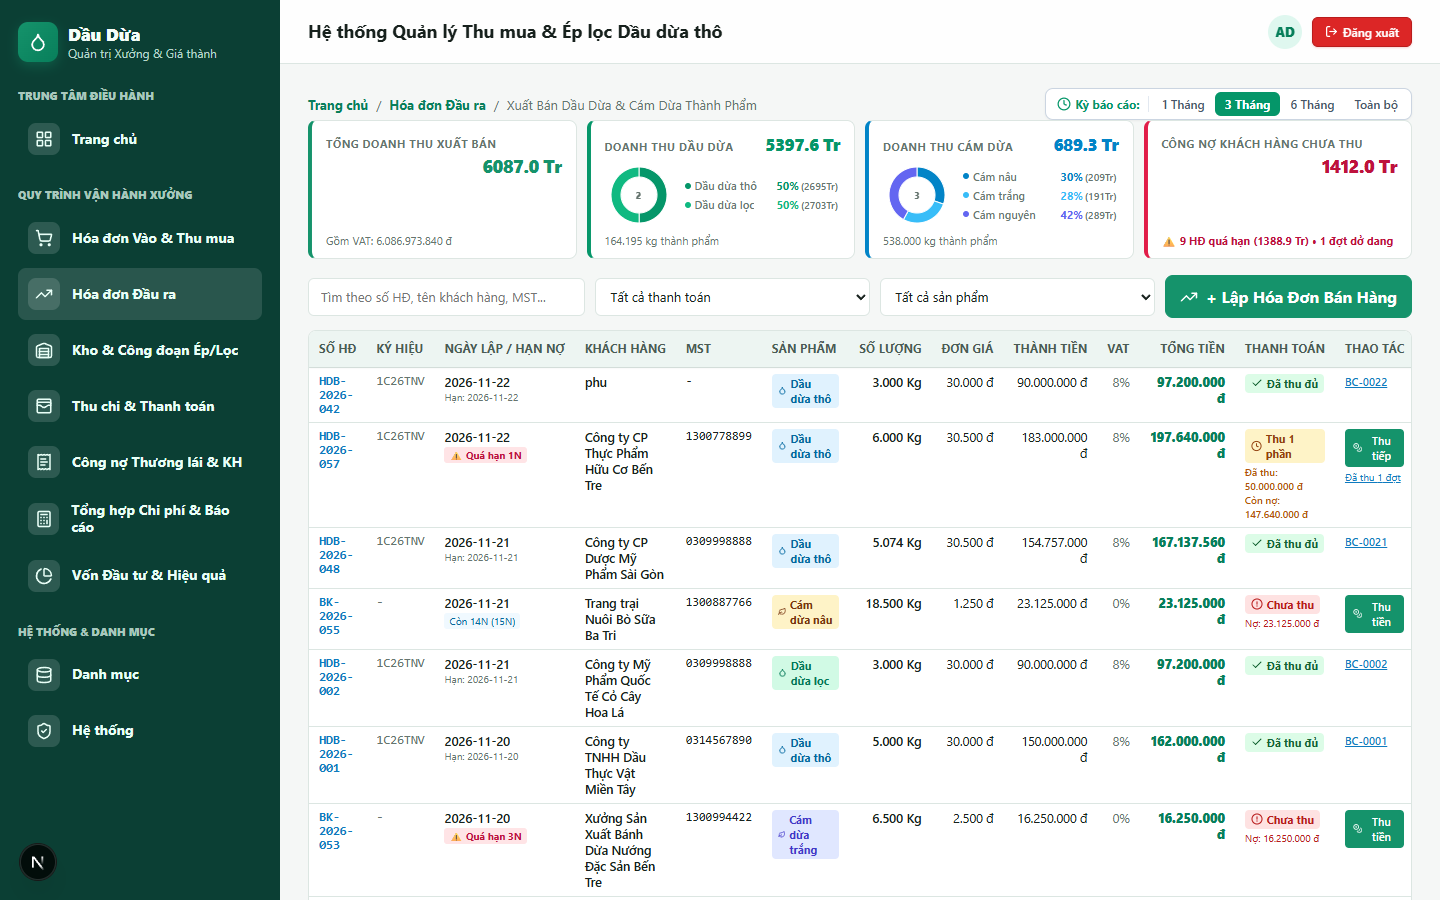
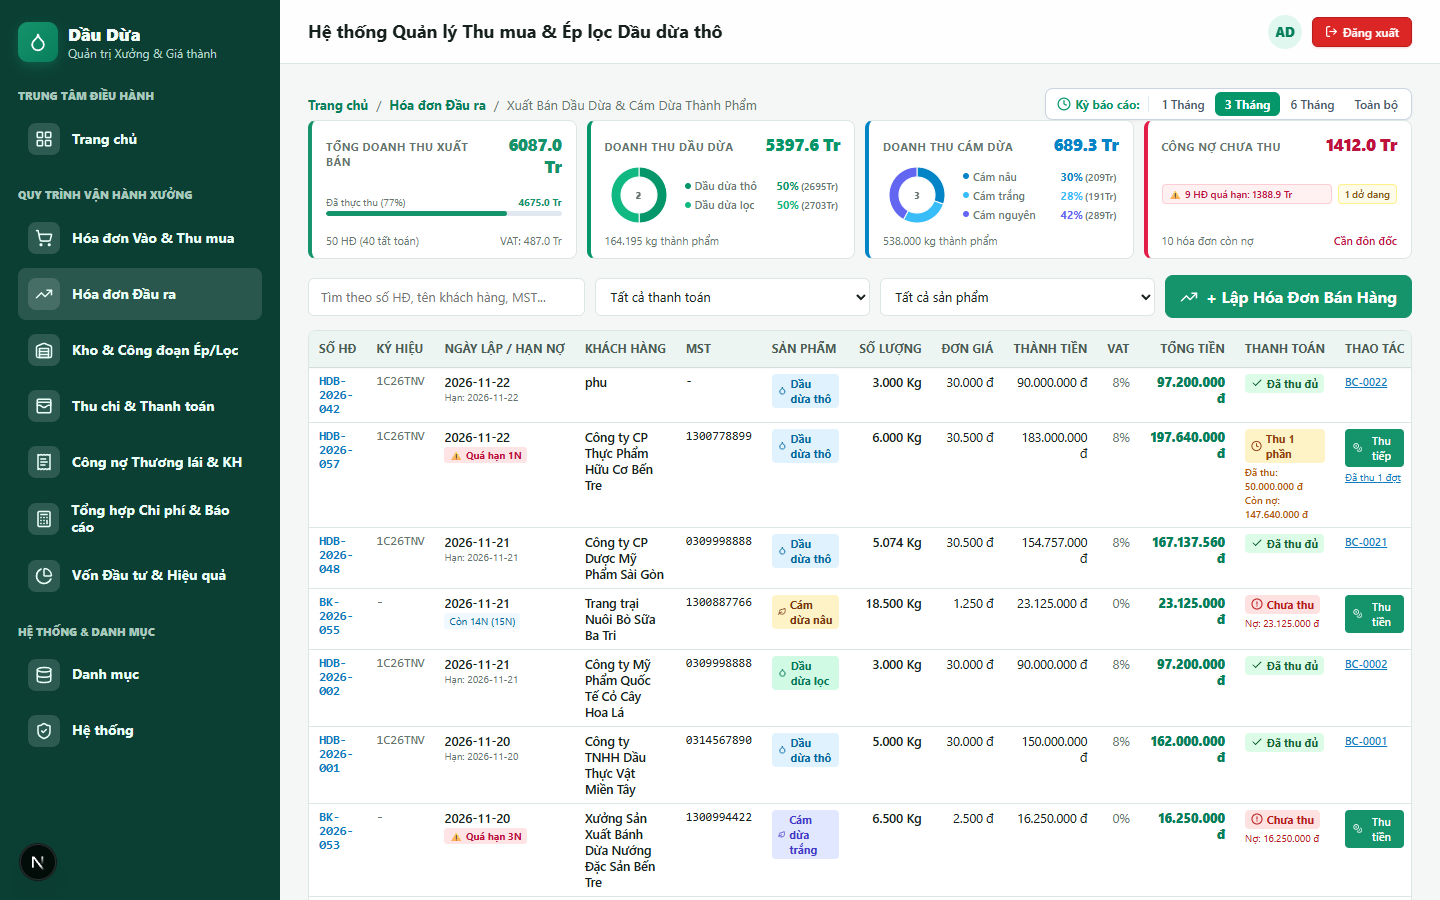
feat(sales): optimize UI and remove whitespace in revenue and receivables boxes with high-density metrics

Changed region(s): [[0.2188, 0.1556, 0.4062, 0.28], [0.8125, 0.1556, 0.9688, 0.2178], [0.8125, 0.2489, 0.9688, 0.28]]

diff --git a/apps/web/screens/sales-invoice-screen.tsx b/apps/web/screens/sales-invoice-screen.tsx
@@ -299,6 +299,13 @@ export default function SalesInvoiceScreen() {
   });
 
   // Paged invoices
+  // Rich metrics for Box 1 & Box 4
+  const totalInvoicesCount = periodInvoices.length;
+  const paidInvoicesCount = periodInvoices.filter((i) => i.paymentStatus === "PAID").length;
+  const totalCollected = periodInvoices.reduce((s, i) => s + (i.paidAmount || 0), 0);
+  const collectionRate = totalRevenue > 0 ? ((totalCollected / totalRevenue) * 100).toFixed(0) : "0";
+  const unpaidCount = periodInvoices.filter((i) => i.paymentStatus !== "PAID").length;
+
   const pagedInvoices = filtered.slice((currentPage - 1) * pageSize, currentPage * pageSize);
   // Segments calculation for Donut Chart
   const oilInvoices = periodInvoices.filter((i) => isOil(i.productType));
@@ -343,16 +350,43 @@ export default function SalesInvoiceScreen() {
 
         {/* Compact KPI Row - 80px according to erp-ux-ui skill */}
         {/* 4 Box ngang hàng (25% mỗi box): 2 Thẻ tài chính + 2 Thẻ biểu đồ tròn Dầu Dừa & Cám Dừa */}
-        <div className="kpi-row-compact" style={{ gridTemplateColumns: "repeat(4, minmax(0, 1fr))", marginBottom: 16 }}>
-          {/* Box 1: Tổng doanh thu xuất bán */}
-          <div className="kpi-card-compact" style={{ borderLeft: "4px solid #15936b", padding: "10px 14px", display: "flex", flexDirection: "column", justifyContent: "space-between" }}>
-            <div>
+        <div className="kpi-row-compact" style={{ gridTemplateColumns: "repeat(4, minmax(0, 1fr))", gap: 10, marginBottom: 16 }}>
+          {/* Box 1: Tổng doanh thu xuất bán (Rich UI) */}
+          <div
+            className="kpi-card-compact"
+            style={{
+              borderLeft: "4px solid #15936b",
+              padding: "10px 14px",
+              display: "flex",
+              flexDirection: "column",
+              justifyContent: "space-between",
+              minHeight: "84px"
+            }}
+          >
+            {/* Header: Label & Value */}
+            <div style={{ display: "flex", justifyContent: "space-between", alignItems: "baseline" }}>
               <span className="kpi-label">Tổng doanh thu xuất bán</span>
-              <span className="kpi-value text-right" style={{ color: "#15936b", display: "block", fontSize: "18px", marginTop: 2 }}>
+              <span className="kpi-value text-right" style={{ color: "#15936b", fontSize: "17px", marginLeft: 8 }}>
                 {(totalRevenue / 1000000).toFixed(1)} Tr
               </span>
             </div>
-            <span className="kpi-sub" style={{ marginTop: 6 }}>Gồm VAT: {(totalRevenue).toLocaleString("vi-VN")} đ</span>
+
+            {/* Progress bar: Tỷ lệ thực thu */}
+            <div style={{ marginTop: 6, marginBottom: 4 }}>
+              <div style={{ display: "flex", justifyContent: "space-between", fontSize: "10px", color: "var(--muted)", marginBottom: 2 }}>
+                <span>Đã thực thu ({collectionRate}%)</span>
+                <span style={{ fontWeight: 700, color: "#15936b" }}>{(totalCollected / 1000000).toFixed(1)} Tr</span>
+              </div>
+              <div style={{ width: "100%", height: 5, background: "#e2e8f0", borderRadius: 3, overflow: "hidden" }}>
+                <div style={{ width: `${Math.min(100, Number(collectionRate))}%`, height: "100%", background: "#15936b", borderRadius: 3, transition: "width 0.3s ease" }} />
+              </div>
+            </div>
+
+            {/* Subtext footer */}
+            <div style={{ display: "flex", justifyContent: "space-between", fontSize: "11px", color: "var(--muted)", marginTop: 2 }}>
+              <span>{totalInvoicesCount} HĐ ({paidInvoicesCount} tất toán)</span>
+              <span>VAT: {((totalRevenue * 0.08) / 1000000).toFixed(1)} Tr</span>
+            </div>
           </div>
 
           {/* Box 2: Biểu đồ tròn Dầu Dừa */}
@@ -390,19 +424,51 @@ export default function SalesInvoiceScreen() {
             }}
           />
 
-          {/* Box 4: Công nợ khách hàng chưa thu */}
-          <div className="kpi-card-compact" style={{ borderLeft: `4px solid ${overdueInvoices.length > 0 ? "#e11d48" : "#c77d14"}`, padding: "10px 14px", display: "flex", flexDirection: "column", justifyContent: "space-between" }}>
-            <div>
-              <span className="kpi-label">Công nợ khách hàng chưa thu</span>
-              <span className="kpi-value text-right" style={{ color: overdueInvoices.length > 0 ? "#be123c" : unpaidTotal > 0 ? "#d94b35" : "#15936b", display: "block", fontSize: "18px", marginTop: 2 }}>
-                {unpaidTotal > 0 ? `${(unpaidTotal / 1000000).toFixed(1)} Tr` : "0 đ (Đã thu đủ)"}
+          {/* Box 4: Công nợ khách hàng chưa thu (Rich UI) */}
+          <div
+            className="kpi-card-compact"
+            style={{
+              borderLeft: `4px solid ${overdueInvoices.length > 0 ? "#e11d48" : "#c77d14"}`,
+              padding: "10px 14px",
+              display: "flex",
+              flexDirection: "column",
+              justifyContent: "space-between",
+              minHeight: "84px"
+            }}
+          >
+            {/* Header: Label & Value */}
+            <div style={{ display: "flex", justifyContent: "space-between", alignItems: "baseline" }}>
+              <span className="kpi-label">Công nợ chưa thu</span>
+              <span className="kpi-value text-right" style={{ color: overdueInvoices.length > 0 ? "#be123c" : unpaidTotal > 0 ? "#d94b35" : "#15936b", fontSize: "17px", marginLeft: 8 }}>
+                {unpaidTotal > 0 ? `${(unpaidTotal / 1000000).toFixed(1)} Tr` : "0 đ"}
               </span>
             </div>
-            <span className="kpi-sub" style={{ marginTop: 6, color: overdueInvoices.length > 0 ? "#be123c" : undefined, fontWeight: overdueInvoices.length > 0 ? 700 : undefined }}>
-              {overdueInvoices.length > 0
-                ? `⚠ ${overdueInvoices.length} HĐ quá hạn (${(overdueTotal / 1000000).toFixed(1)} Tr) • ${partialCount} đợt dở dang`
-                : `${invoices.filter((i) => i.paymentStatus !== "PAID").length} HĐ còn nợ • ${partialCount} đợt dở dang`}
-            </span>
+
+            {/* Warning / Breakdown badge */}
+            <div style={{ display: "flex", gap: 6, marginTop: 4, marginBottom: 2 }}>
+              {overdueInvoices.length > 0 ? (
+                <div style={{ flex: 1, background: "#fff1f2", border: "1px solid #fecdd3", borderRadius: 4, padding: "2px 6px", fontSize: "10px", color: "#be123c", fontWeight: 600 }}>
+                  ⚠ {overdueInvoices.length} HĐ quá hạn: {(overdueTotal / 1000000).toFixed(1)} Tr
+                </div>
+              ) : (
+                <div style={{ flex: 1, background: "#f0fdf4", border: "1px solid #bbf7d0", borderRadius: 4, padding: "2px 6px", fontSize: "10px", color: "#15803d", fontWeight: 600 }}>
+                  ✓ Không có nợ quá hạn
+                </div>
+              )}
+              {partialCount > 0 && (
+                <div style={{ background: "#fefce8", border: "1px solid #fef08a", borderRadius: 4, padding: "2px 6px", fontSize: "10px", color: "#854d0e", fontWeight: 600 }}>
+                  {partialCount} dở dang
+                </div>
+              )}
+            </div>
+
+            {/* Subtext footer */}
+            <div style={{ display: "flex", justifyContent: "space-between", fontSize: "11px", color: "var(--muted)", marginTop: 2 }}>
+              <span>{unpaidCount} hóa đơn còn nợ</span>
+              <span style={{ color: overdueInvoices.length > 0 ? "#be123c" : "var(--muted)", fontWeight: 600 }}>
+                {overdueInvoices.length > 0 ? "Cần đôn đốc" : "Trong hạn"}
+              </span>
+            </div>
           </div>
         </div>
 
